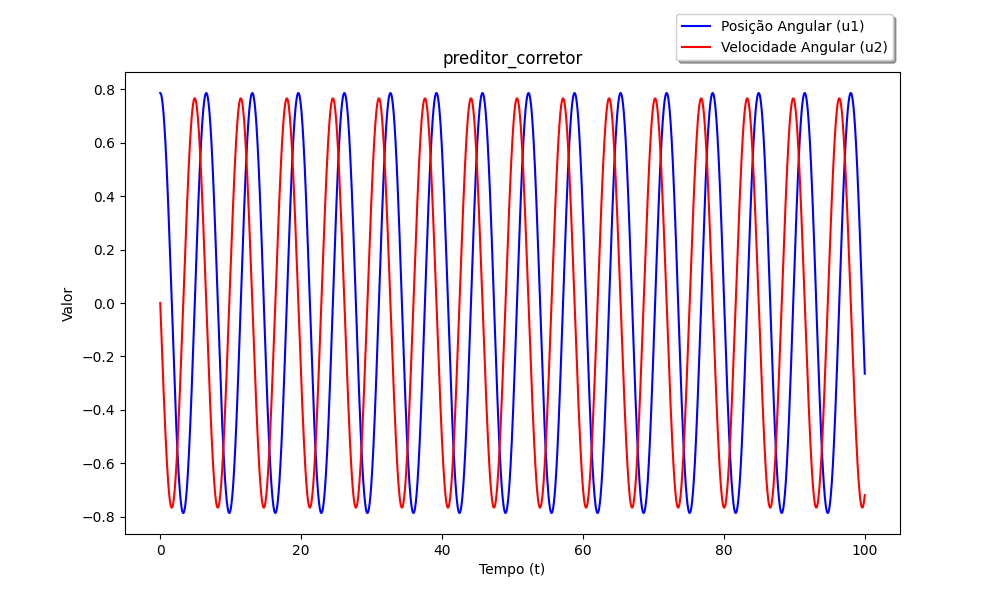
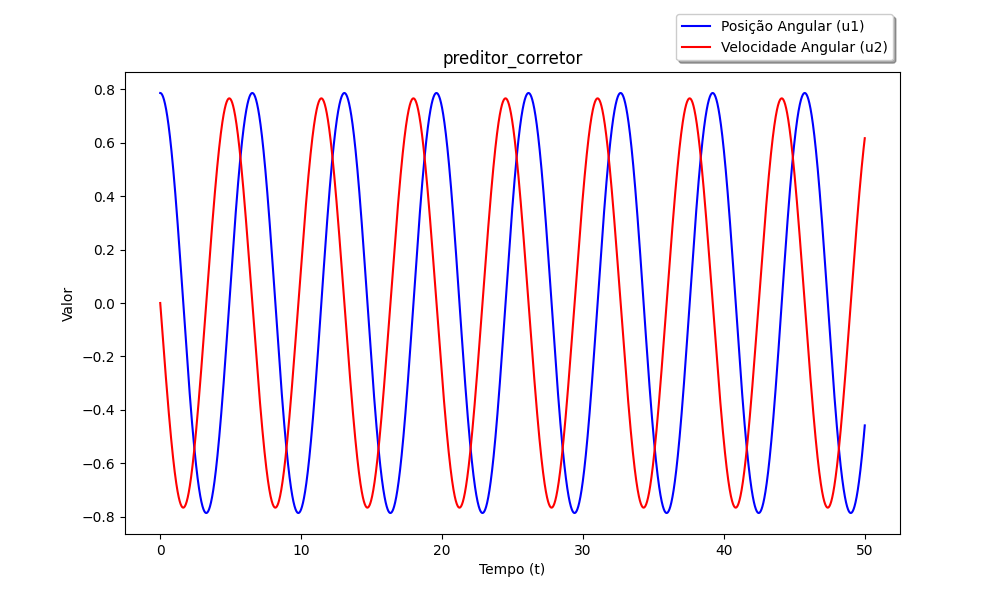
falta arrumar o adams e explicito

diff --git a/02/Metodos.py b/02/Metodos.py
@@ -10,7 +10,7 @@ import time
 
 class Metodos:
 
-    def __init__(self, t0, u0, h, num_passos):
+    def __init__(self, t0, tf, u0, h):
         """
         Inicializa a classe Metodos com os parâmetros necessários para a resolução do sistema de equações diferenciais.
 
@@ -29,25 +29,25 @@ class Metodos:
         """
         # Define os parâmetros iniciais
         self.t0 = t0
+        self.tf = tf
         self.u0 = u0
         self.h = h
-        self.num_passos = num_passos
-        self.tf = t0 + h * num_passos
+        self.num_passos = round((self.tf-self.t0)/self.h)
 
         # Cria uma lista de valores de tempo uniformemente espaçados
-        self.t_lin = np.linspace(t0, self.tf, num_passos)
+        self.t_lin = np.linspace(t0, self.tf, self.num_passos+1)
 
         # Calcula os valores de referência do vetor de estados
         self.u_ref = [self.sol_referencia(t, u0) for t in self.t_lin]
 
         # Chama os métodos de resolução para cada um dos métodos
         self.t_euler_e, self.u_euler_e = self.euler_explicito(
-            t0, u0, h, num_passos)
-        self.t_taylor_2, self.u_taylor_2 = self.taylor_2(t0, u0, h, num_passos)
-        self.t_AB_2, self.u_AB_2 = self.adams_bashforth2(t0, u0, h, num_passos)
+            t0, u0, h, self.num_passos)
+        self.t_taylor_2, self.u_taylor_2 = self.taylor_2(t0, u0, h, self.num_passos)
+        self.t_AB_2, self.u_AB_2 = self.adams_bashforth2(t0, u0, h, self.num_passos)
         self.t_euler_i, self.u_euler_i = self.euler_implicito(
-            t0, u0, h, num_passos)
-        self.t_PC, self.u_PC = self.preditor_corretor(t0, u0, h, num_passos)
+            t0, u0, h, self.num_passos)
+        self.t_PC, self.u_PC = self.preditor_corretor(t0, u0, h, self.num_passos)
 
         # Define um dicionário com os métodos de resolução
         self.metodos_dict = {
@@ -64,7 +64,8 @@ class Metodos:
 
         # Plota os gráficos para cada método de resolução
         for i in self.metodos_dict.keys():
-            self.plot_vel_pos(i)  # Plota o gráfico de velocidade versus tempo
+            # Plota o gráfico de velocidade versus tempo
+            self.plot_vel_pos(i)
             # Calcula e plota os erros para cada método
             self.erros_metodos(self.metodos_dict[i], i)
             # Plota o gráfico de fase
@@ -464,29 +465,57 @@ class Metodos:
             return None
 
         # Parâmetros da simulação
-        h_values = [0.01, 0.001, 0.0001, 0.00001, 0.000001]
+        h_values = [0.1, 0.01, 0.001, 0.0001, 0.00001]
 
         # Cálculo e plotagem da ordem de convergência temporal para o método
-        error_list = []
+        error_u1_list = []
+        error_u2_list = []
+
         for h in h_values:
-            t, u_metodo = metodo(self.t0, self.u0, h, self.num_passos)
+            num_passos = round((self.tf-self.t0)/h)
+            t, u_metodo = metodo(self.t0, self.u0, h, num_passos)
 
-            u_aprox = np.array([u_metodo[-1][0], u_metodo[-1][1]])
+            # Cria uma lista de valores de tempo uniformemente espaçados
+            t_lin = np.linspace(self.t0, self.tf, num_passos+1)
+            # Calcula os valores de referência do vetor de estados
 
-            error = self.calculate_error(self.u_ref, u_aprox)
+            u_ref = [self.sol_referencia(t, self.u0) for t in t_lin]
 
-            error_list.append(error)
+            primeira_coluna_metodo = [linha[0] for linha in u_metodo]
+            segunda_coluna_metodo = [linha[1] for linha in u_metodo]
+
+            primeira_coluna_ref = [linha[0] for linha in u_ref]
+            segunda_coluna_ref = [linha[1] for linha in u_ref]
+
+            error_u1 = self.calculate_error(primeira_coluna_ref, primeira_coluna_metodo)
+            error_u2 = self.calculate_error(segunda_coluna_ref, segunda_coluna_metodo)
+
+            error_u1_list.append(error_u1)
+            error_u2_list.append(error_u2)
 
         # Plotagem do gráfico de convergência do erro de aproximação
-        plt.loglog(h_values, error_list, '-o')
+        plt.loglog(h_values, error_u1_list, '-o')
         plt.xlabel('Tamanho do Passo (h)')
         plt.ylabel('Erro de Aproximação')
-        plt.title('Gráfico de Convergência do Erro - ' + titulo)
+        plt.title('Gráfico de Convergência do Erro da Posição' + titulo)
         plt.grid(True)
 
         if not os.path.exists('graficos_erros'):
             os.makedirs('graficos_erros')
-        plt.savefig('graficos_erros/' + titulo + '.png')
+        plt.savefig('graficos_erros/' + titulo + "_pos" + '.png')
+
+        plt.close()
+
+        # Plotagem do gráfico de convergência do erro de aproximação
+        plt.loglog(h_values, error_u2_list, '-o')
+        plt.xlabel('Tamanho do Passo (h)')
+        plt.ylabel('Erro de Aproximação')
+        plt.title('Gráfico de Convergência do Erro da Velocidade' + titulo)
+        plt.grid(True)
+
+        if not os.path.exists('graficos_erros'):
+            os.makedirs('graficos_erros')
+        plt.savefig('graficos_erros/' + titulo + "_vel" + '.png')
 
         plt.close()
 
@@ -505,7 +534,7 @@ class Metodos:
         """
 
         # Calculando o erro absoluto
-        erro_absoluto = np.abs(u_exact - u_approx)
+        erro_absoluto = np.abs(np.subtract(u_exact, u_approx))
 
         # Calculando a norma máxima
         norma_max = np.amax(np.abs(erro_absoluto))

diff --git a/02/main.py b/02/main.py
@@ -2,11 +2,12 @@ from Metodos import *
 
 # Condição inicial t(0)
 t0 = 0
+tf = 50
+
 # Condição inicial u(0) = [u1(0), u2(0)]
 u0 = np.array([np.pi/4, 0])
+
 # Tamanho do passo
 h = 0.01
-# Número de passos
-num_passos = 10000
 
-metodos = Metodos(t0, u0, h, num_passos)
+metodos = Metodos(t0, tf, u0, h)
